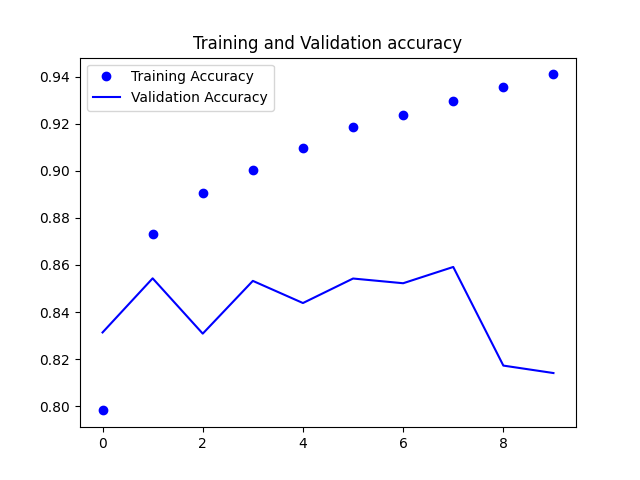
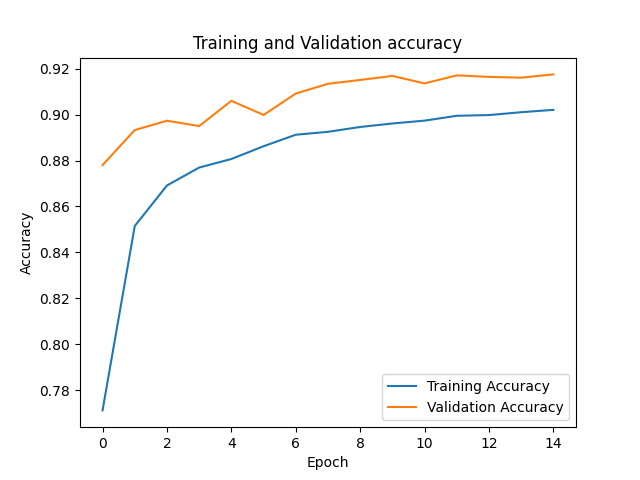
fix bugs

diff --git a/CNN.py b/CNN.py
@@ -8,10 +8,16 @@ from keras.models import load_model
 # keras optimizers
 from keras.optimizers import SGD
 from keras.optimizers import Adam
+from keras.utils import to_categorical
 # Helper libraries
 import numpy as np
 import matplotlib.pyplot as plt
-
+# from keras.utils import plot_model
+import datetime
+import pydot 
+from pydotplus import graphviz
+from keras.utils.vis_utils import plot_model
+from keras.utils.vis_utils import model_to_dot
 from sklearn.model_selection import train_test_split
 
 print(tf.__version__)
@@ -43,29 +49,36 @@ print(len(validate_labels)) # 60000*ratio
 print(test_images.shape) # (10000, 28, 28)
 
 
-# check 1st image: visualization
-plt.figure()
-plt.imshow(train_images[0])
-plt.colorbar()
-plt.grid(False)
-plt.show()
+# # check 1st image: visualization
+# plt.figure()
+# plt.imshow(train_images[0])
+# plt.colorbar()
+# plt.grid(False)
+# plt.show()
 
 # pre-processing
 # normalize images
 train_images = train_images / 255.0
+validate_images = validate_images / 255.0
 
 test_images = test_images / 255.0
 
-# check data format
-plt.figure(figsize=(10,10))
-for i in range(25):
-    plt.subplot(5,5,i+1)
-    plt.xticks([])
-    plt.yticks([])
-    plt.grid(False)
-    plt.imshow(train_images[i], cmap=plt.cm.binary)
-    plt.xlabel(class_names[train_labels[i]])
-plt.show()
+# # check data format
+# plt.figure(figsize=(10,10))
+# for i in range(25):
+#     plt.subplot(5,5,i+1)
+#     plt.xticks([])
+#     plt.yticks([])
+#     plt.grid(False)
+#     plt.imshow(train_images[i], cmap=plt.cm.binary)
+#     plt.xlabel(class_names[train_labels[i]])
+# plt.show()
+
+# One hot encoding for categorical loss
+train_labels = to_categorical(train_labels, num_classes)
+validate_labels = to_categorical(validate_labels, num_classes)
+test_labels = to_categorical(test_labels, num_classes)
+
 
 
 # build model here
@@ -73,32 +86,59 @@ plt.show()
 # Current: 8 layers: Input * 1 + Conv2D * 3 + Pooling * 2 + Dense * 2
 # Baseline:
 model = models.Sequential()
-model.add(layers.Conv2D(28, (3, 3), activation='relu', input_shape=(28, 28, 1)))
+model.add(layers.Conv2D(32, (3, 3), activation='relu', kernel_initializer='he_normal', input_shape=(28, 28, 1)))
 model.add(layers.MaxPooling2D((2, 2)))
-model.add(layers.Conv2D(56, (3, 3), activation='relu'))
+# Add dropouts to the model
+model.add(layers.Dropout(0.25))
+model.add(layers.Conv2D(64, (3, 3), activation='relu'))
 model.add(layers.MaxPooling2D((2, 2)))
-model.add(layers.Conv2D(56, (3, 3), activation='relu'))
+# Add dropouts to the model
+model.add(layers.Dropout(0.25))
+model.add(layers.Conv2D(128, (3, 3), activation='relu'))
+# Add dropouts to the model
+model.add(layers.Dropout(0.4))
+# add Dense Layer
+model.add(layers.Flatten())
+model.add(layers.Dense(128, activation='relu'))
+# Add dropouts to the model
+model.add(layers.Dropout(0.3))
+model.add(layers.Dense(10, activation='softmax'))
 
 # .summary() will print model structure and details
 model.summary()
+# plot the model
+plot_model(model, to_file='model.png')
+tf.keras.utils.plot_model(model, show_shapes = True, to_file='model.png')
 
-# add Dense Layer
-model.add(layers.Flatten())
-model.add(layers.Dense(56, activation='relu'))
-model.add(layers.Dense(10))
-
-model.summary()
 
 # compile and train
 # opt = SGD(lr=0.01, momentum=0.9)
 # model.compile(optimizer=opt,
 #               loss=tf.keras.losses.SparseCategoricalCrossentropy(from_logits=True),
 #               metrics=['accuracy'])
+
+
+# model.compile(optimizer='adam',
+#               loss=tf.keras.losses.SparseCategoricalCrossentropy(from_logits=True),
+#               metrics=['accuracy'])
+
+
+# Optimizer
+# optimizer = Adam(lr=0.001, beta_1=0.9, beta_2=0.999 )
+# model.compile(optimizer='adam', loss="categorical_crossentropy", metrics=["accuracy"])
+
+
 model.compile(optimizer='adam',
-              loss=tf.keras.losses.SparseCategoricalCrossentropy(from_logits=True),
+              loss=tf.keras.losses.CategoricalCrossentropy(from_logits=True),
               metrics=['accuracy'])
 
-history = model.fit(train_images, train_labels, epochs=10, 
+
+# model.compile(optimizer='adam',
+#               loss=tf.keras.losses.BinaryCrossentropy(from_logits=True),
+#               metrics=['accuracy'])
+history = model.fit(train_images, 
+                    train_labels, 
+                    epochs=15, 
                     validation_data=(validate_images, validate_labels))
 
 # model.compile(loss ='sparse_categorical_crossentropy', optimizer=Adam(lr=0.001),metrics =['accuracy'])
@@ -106,35 +146,45 @@ history = model.fit(train_images, train_labels, epochs=10,
 #                     validation_data=(validate_images, validate_labels))
 
 
-# save model and weights
-model_json = model.to_json()
-with open("CNN1.json", "w") as json_file:
-    json_file.write(model_json)
-model.save_weights("weights.h5")
-print("Model saved")
 
 
-# load json and create model
-json_file = open('CNN1.json', 'r')
-loaded_model_json = json_file.read()
-json_file.close()
-loaded_model = model_from_json(loaded_model_json)
-# load weights into new model
-loaded_model.load_weights("weights.h5")
-print("Loaded model from disk")
+# # save model and weights
+# model_json = model.to_json()
+# with open("CNN1.json", "w") as json_file:
+#     json_file.write(model_json)
+# model.save_weights("weights.h5")
+# print("Model saved")
+
+
+# # load json and create model
+# json_file = open('CNN1.json', 'r')
+# loaded_model_json = json_file.read()
+# json_file.close()
+# loaded_model = model_from_json(loaded_model_json)
+# # load weights into new model
+# loaded_model.load_weights("weights.h5")
+# print("Loaded model from disk")
 
 
 
+# # Assessment of model
+# plt.plot(history.history['accuracy'], label='train accuracy')
+# plt.plot(history.history['val_accuracy'], label = 'val_accuracy')
+# plt.xlabel('Epoch')
+# plt.ylabel('Accuracy')
+# # plt.ylim([0.5, 1])
+# plt.legend(loc='lower right')
+# plt.show()
+# # plot loss and accuracy curve
+# plt.plot(history.history['loss'], label='train loss')
+# plt.plot(history.history['val_loss'], label = 'val_loss')
+# plt.xlabel('Epoch')
+# plt.ylabel('Loss')
+# # plt.ylim([0, 1])
+# plt.legend(loc='lower right')
+# plt.show()
 
-# Assessment of model
-plt.plot(history.history['accuracy'], label='train accuracy')
-plt.plot(history.history['val_accuracy'], label = 'val_accuracy')
-plt.xlabel('Epoch')
-plt.ylabel('Accuracy')
-plt.ylim([0.5, 1])
-plt.legend(loc='lower right')
-plt.show()
-# plot loss and accuracy curve
+
 test_loss, test_acc = model.evaluate(test_images,  test_labels, verbose=2)
 
 # accuracy
@@ -144,20 +194,25 @@ print('Test Accuracy : {:.4f}'.format(test_acc))
 
 
 # plot training and validation accuracy, loss.
-import matplotlib.pyplot as plt
 
 accuracy = history.history['accuracy']
 val_accuracy = history.history['val_accuracy']
 loss = history.history['loss']
 val_loss = history.history['val_loss']
 epochs = range(len(accuracy))
-plt.plot(epochs, accuracy, 'bo', label='Training Accuracy')
-plt.plot(epochs, val_accuracy, 'b', label='Validation Accuracy')
+plt.plot(epochs, accuracy, label='Training Accuracy')
+plt.plot(epochs, val_accuracy, label='Validation Accuracy')
+plt.xlabel('Epoch')
+plt.ylabel('Accuracy')
+# plt.plot(epochs, accuracy, 'bo', label='Training Accuracy')
+# plt.plot(epochs, val_accuracy, 'b', label='Validation Accuracy')
 plt.title('Training and Validation accuracy')
 plt.legend()
 plt.figure()
-plt.plot(epochs, loss, 'bo', label='Training Loss')
-plt.plot(epochs, val_loss, 'b', label='Validation Loss')
+plt.plot(epochs, loss, label='Training Loss')
+plt.plot(epochs, val_loss, label='Validation Loss')
+plt.xlabel('Epoch')
+plt.ylabel('Loss')
 plt.title('Training and validation loss')
 plt.legend()
 plt.show()
